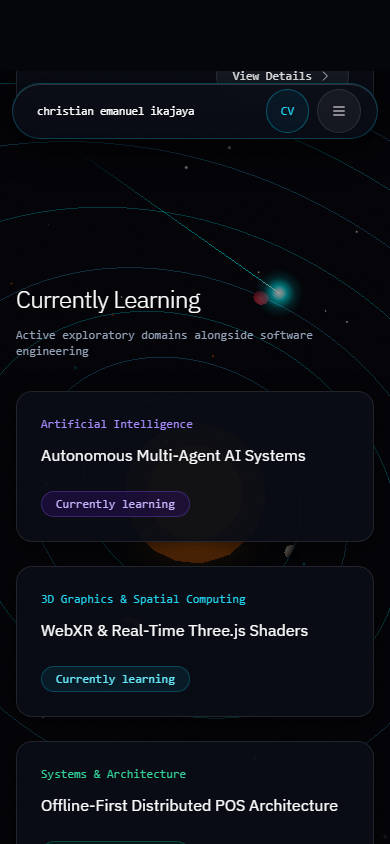
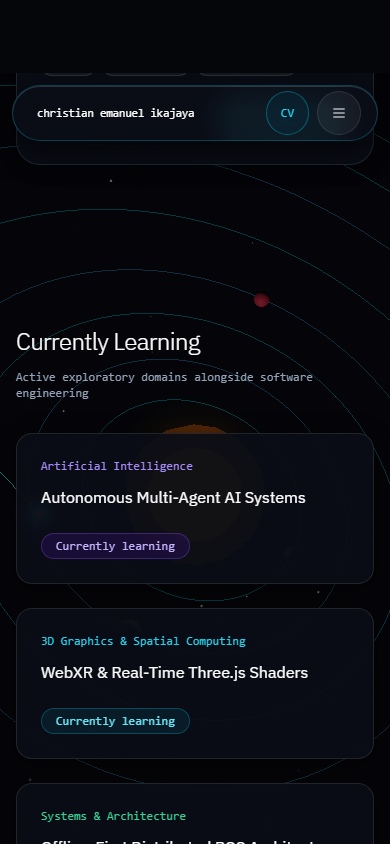
feat: add UniCash live deployment, Catree project, bacteria bubble navbar, and Cloudflare optimizations

diff --git a/src/components/Navbar.tsx b/src/components/Navbar.tsx
@@ -1,6 +1,6 @@
 "use client";
 
-import React, { useState, useEffect } from "react";
+import React, { useState, useEffect, useRef } from "react";
 import { PersonalInfo } from "../types/portfolio";
 
 interface NavbarProps {
@@ -12,6 +12,17 @@ export function Navbar({ personal, onPrintCV }: NavbarProps) {
   const [isMobileMenuOpen, setIsMobileMenuOpen] = useState(false);
   const [isScrolled, setIsScrolled] = useState(false);
   const [activeSection, setActiveSection] = useState<string>("");
+  const [bubbleStyle, setBubbleStyle] = useState<{
+    left: number;
+    width: number;
+    height: number;
+    opacity: number;
+  }>({ left: 0, width: 0, height: 0, opacity: 0 });
+  const [popKey, setPopKey] = useState<number>(0);
+
+  const linkRefs = useRef<{ [key: string]: HTMLAnchorElement | null }>({});
+  const isManualNavRef = useRef(false);
+  const manualNavTimeoutRef = useRef<NodeJS.Timeout | null>(null);
 
   const navLinks = [
     { label: "Projects", href: "#projects", id: "projects" },
@@ -21,29 +32,98 @@ export function Navbar({ personal, onPrintCV }: NavbarProps) {
     { label: "Contact", href: "#contact", id: "contact" },
   ];
 
+  // Update bacteria bubble geometry whenever activeSection changes
   useEffect(() => {
-    const handleScroll = () => {
-      setIsScrolled(window.scrollY > 20);
+    if (activeSection && linkRefs.current[activeSection]) {
+      const el = linkRefs.current[activeSection];
+      if (el) {
+        setBubbleStyle({
+          left: el.offsetLeft,
+          width: el.offsetWidth,
+          height: el.offsetHeight,
+          opacity: 1,
+        });
+        setPopKey((k) => k + 1);
+      }
+    } else {
+      setBubbleStyle((prev) => ({ ...prev, opacity: 0 }));
+    }
+  }, [activeSection]);
 
-      // Section tracking for active pill highlight
-      const scrollPosition = window.scrollY + 250;
-      const sectionIds = ["projects", "learning", "experience", "skills", "contact"];
-      
-      let current = "";
-      for (let i = sectionIds.length - 1; i >= 0; i--) {
-        const el = document.getElementById(sectionIds[i]);
-        if (el && el.offsetTop <= scrollPosition) {
-          current = sectionIds[i];
-          break;
+  // Handle window resize to keep bubble aligned
+  useEffect(() => {
+    const handleResize = () => {
+      if (activeSection && linkRefs.current[activeSection]) {
+        const el = linkRefs.current[activeSection];
+        if (el) {
+          setBubbleStyle({
+            left: el.offsetLeft,
+            width: el.offsetWidth,
+            height: el.offsetHeight,
+            opacity: 1,
+          });
         }
       }
-      setActiveSection(current);
+    };
+    window.addEventListener("resize", handleResize);
+    return () => window.removeEventListener("resize", handleResize);
+  }, [activeSection]);
+
+  // Robust, throttled section tracking with hysteresis
+  useEffect(() => {
+    let rafId: number | null = null;
+
+    const handleScroll = () => {
+      if (rafId !== null) return;
+
+      rafId = window.requestAnimationFrame(() => {
+        rafId = null;
+
+        setIsScrolled(window.scrollY > 20);
+
+        if (isManualNavRef.current) return;
+
+        // Top of page (Hero section)
+        if (window.scrollY < 160) {
+          setActiveSection("");
+          return;
+        }
+
+        // Bottom of page lock to Contact
+        const scrollBottom = window.innerHeight + window.scrollY;
+        const docHeight = document.documentElement.scrollHeight;
+        if (scrollBottom >= docHeight - 90) {
+          setActiveSection("contact");
+          return;
+        }
+
+        const sectionIds = ["projects", "learning", "experience", "skills", "contact"];
+        let matched = "";
+
+        for (const id of sectionIds) {
+          const el = document.getElementById(id);
+          if (!el) continue;
+          const rect = el.getBoundingClientRect();
+          if (rect.top <= 240 && rect.bottom >= 120) {
+            matched = id;
+            break;
+          }
+        }
+
+        if (matched) {
+          setActiveSection(matched);
+        }
+      });
     };
 
     window.addEventListener("scroll", handleScroll, { passive: true });
     handleScroll();
 
-    return () => window.removeEventListener("scroll", handleScroll);
+    return () => {
+      window.removeEventListener("scroll", handleScroll);
+      if (rafId !== null) window.cancelAnimationFrame(rafId);
+      if (manualNavTimeoutRef.current) clearTimeout(manualNavTimeoutRef.current);
+    };
   }, []);
 
   useEffect(() => {
@@ -56,6 +136,17 @@ export function Navbar({ personal, onPrintCV }: NavbarProps) {
     window.addEventListener("keydown", handleKeyDown);
     return () => window.removeEventListener("keydown", handleKeyDown);
   }, [isMobileMenuOpen]);
+
+  const handleNavClick = (id: string) => {
+    setActiveSection(id);
+    isManualNavRef.current = true;
+    if (manualNavTimeoutRef.current) {
+      clearTimeout(manualNavTimeoutRef.current);
+    }
+    manualNavTimeoutRef.current = setTimeout(() => {
+      isManualNavRef.current = false;
+    }, 800);
+  };
 
   return (
     <header
@@ -72,7 +163,7 @@ export function Navbar({ personal, onPrintCV }: NavbarProps) {
             : "w-full max-w-full h-16 px-4 sm:px-8 lg:px-12 rounded-none border-b border-white/10 border-t-0 border-x-0 bg-[#05060A]/80 backdrop-blur-md md:backdrop-blur-xl shadow-none"
         }`}
       >
-        {/* Brand (Clean, no /station tag) */}
+        {/* Brand */}
         <a
           href="#"
           className="flex items-center gap-1.5 text-xs sm:text-sm font-mono tracking-tight text-white hover:text-cyan-400 transition-colors py-1.5 px-2 rounded-full min-h-[44px]"
@@ -81,21 +172,44 @@ export function Navbar({ personal, onPrintCV }: NavbarProps) {
           <span className="font-medium text-white">{personal.name.toLowerCase()}</span>
         </a>
 
-        {/* Desktop Navigation Links (Frosted Glass Pill Rail with Active Highlight) */}
+        {/* Desktop Navigation Links (Frosted Glass Pill Rail with Bacteria Bubble Indicator) */}
         <nav
           aria-label="Main Navigation"
-          className="hidden md:flex items-center gap-1 bg-white/[0.04] backdrop-blur-md px-2 py-1 rounded-full border border-white/10 shadow-[inset_0_1px_0_0_rgba(255,255,255,0.08)]"
+          className="relative hidden md:flex items-center gap-1 bg-white/[0.04] backdrop-blur-md px-2 py-1 rounded-full border border-white/10 shadow-[inset_0_1px_0_0_rgba(255,255,255,0.08)]"
         >
+          {/* Sliding Bacteria Bubble Indicator with Spring Pop Physics */}
+          <span
+            key={popKey}
+            aria-hidden="true"
+            className="pointer-events-none absolute rounded-full transition-all duration-500 ease-[cubic-bezier(0.34,1.56,0.64,1)] motion-reduce:transition-none animate-bacteria-pop"
+            style={{
+              left: `${bubbleStyle.left}px`,
+              width: `${bubbleStyle.width}px`,
+              height: `${bubbleStyle.height}px`,
+              opacity: bubbleStyle.opacity,
+              transform: bubbleStyle.opacity > 0 ? "scale(1)" : "scale(0.5)",
+            }}
+          >
+            {/* Bioluminescent bacteria bubble membrane and cyan glow */}
+            <span className="absolute inset-0 rounded-full bg-cyan-950/80 border border-cyan-400/60 shadow-[0_0_14px_rgba(0,240,255,0.35),_inset_0_0_10px_rgba(0,240,255,0.25)]" />
+            {/* Cellular surface tension highlight */}
+            <span className="absolute inset-x-2 top-0.5 h-[1.5px] rounded-full bg-gradient-to-r from-transparent via-cyan-200/80 to-transparent" />
+          </span>
+
           {navLinks.map((link) => {
             const isActive = activeSection === link.id;
             return (
               <a
                 key={link.href}
+                ref={(el) => {
+                  linkRefs.current[link.id] = el;
+                }}
                 href={link.href}
-                className={`text-xs font-mono transition-all px-3.5 py-1 rounded-full ${
+                onClick={() => handleNavClick(link.id)}
+                className={`relative z-10 text-xs font-mono px-3.5 py-1 rounded-full select-none transition-colors duration-200 border border-transparent ${
                   isActive
-                    ? "text-cyan-400 bg-cyan-950/60 border border-cyan-500/40 shadow-[0_0_10px_rgba(0,240,255,0.2)]"
-                    : "text-slate-300 hover:text-cyan-400 hover:bg-cyan-950/40"
+                    ? "text-cyan-300 font-medium drop-shadow-[0_0_8px_rgba(0,240,255,0.7)]"
+                    : "text-slate-300 hover:text-cyan-300"
                 }`}
               >
                 {link.label}
@@ -163,11 +277,14 @@ export function Navbar({ personal, onPrintCV }: NavbarProps) {
               <a
                 key={link.href}
                 href={link.href}
-                onClick={() => setIsMobileMenuOpen(false)}
-                className={`block text-sm font-mono px-4 py-3 rounded-xl transition-all min-h-[44px] flex items-center ${
+                onClick={() => {
+                  setIsMobileMenuOpen(false);
+                  setActiveSection(link.id);
+                }}
+                className={`block text-sm font-mono px-4 py-3 rounded-xl transition-all min-h-[44px] flex items-center border ${
                   isActive
-                    ? "text-cyan-400 bg-cyan-950/60 border border-cyan-500/30 font-medium"
-                    : "text-white hover:text-cyan-400 hover:bg-cyan-950/30"
+                    ? "text-cyan-400 bg-cyan-950/60 border-cyan-500/30 font-medium"
+                    : "text-white border-transparent hover:text-cyan-400 hover:bg-cyan-950/30"
                 }`}
               >
                 {link.label}

diff --git a/src/data/portfolio.ts b/src/data/portfolio.ts
@@ -82,6 +82,10 @@ export const portfolioData: PortfolioData = {
           caption: "Local offline LLM agent interface powered by Ollama for restock checks, store queries, and sales summaries",
         },
       ],
+      liveUrl: "https://unicash.dalonelycat.site/",
+      previewUrl: "https://unicash.dalonelycat.site/",
+      repoUrl: "https://github.com/DaLonelyCat/UniCash",
+      status: "live",
       featured: true,
     },
     {
@@ -286,6 +290,39 @@ export const portfolioData: PortfolioData = {
       ],
       liveUrl: "https://fruqitamlg.vercel.app/",
       previewUrl: "https://fruqitamlg.vercel.app/",
+      status: "live",
+      featured: true,
+    },
+    {
+      id: "catree-link-hub",
+      title: "Catree Personal Link Hub",
+      tagline: "Custom-tailored alternative to Linktree engineered as a lightweight, zero-bloat personal link-in-bio hub.",
+      category: "Web App",
+      year: "2026",
+      overview:
+        "A lightweight, high-performance personal link tree and unified profile hub built with Astro as a self-hosted, custom-tailored alternative to Linktree for Christian (@DaLonelyCat). Connects personal projects, discord connections, and social presence without third-party tracker bloat.",
+      problem:
+        "Commercial link-in-bio services inject tracking scripts, heavy client runtime overhead, slow redirects, and restrictive branding tiers that compromise privacy and load speeds.",
+      solution:
+        "Engineered an Astro-powered, ultra-lightweight link hub featuring clean dark-mode ergonomics, instant client-side routing, zero-bloat asset footprint, and curated navigation to portfolio projects, Discord connections, and verified developer accounts.",
+      impact:
+        "Delivers instantaneous sub-second navigation across Christian's public web presence, centralizing portfolio showcases and social channels under a single fast, branded domain with complete data ownership.",
+      tags: ["Astro", "TypeScript", "Tailwind CSS", "Web Platform", "Link-in-Bio", "Personal Hub", "Zero-Bloat"],
+      screenshots: [
+        {
+          src: "/projects/catree-preview.png",
+          label: "Desktop Hub",
+          caption: "Personal link tree and connected profile hub with curated navigation",
+        },
+        {
+          src: "/projects/catree-mobile.png",
+          label: "Mobile View",
+          caption: "Responsive mobile-first card interface designed for high-density thumb navigation",
+        },
+      ],
+      liveUrl: "https://catree.dalonelycat.site/",
+      previewUrl: "https://catree.dalonelycat.site/",
+      repoUrl: "https://github.com/DaLonelyCat/Catree",
       status: "live",
       featured: true,
     },

diff --git a/src/app/globals.css b/src/app/globals.css
@@ -73,6 +73,26 @@ body {
   backface-visibility: hidden;
 }
 
+/* Bacteria bubble pop animation: organic squish, stretch, and elastic snap */
+@keyframes bacteria-pop {
+  0% {
+    transform: scale(1);
+  }
+  35% {
+    transform: scale(1.12, 0.88);
+  }
+  70% {
+    transform: scale(0.96, 1.05);
+  }
+  100% {
+    transform: scale(1, 1);
+  }
+}
+
+.animate-bacteria-pop {
+  animation: bacteria-pop 420ms cubic-bezier(0.34, 1.56, 0.64, 1);
+}
+
 /* Custom Rocket Pointer (Desktop Fine-Pointer Devices Only) */
 @media (hover: hover) and (pointer: fine) {
   body.rocket-cursor-enabled,
